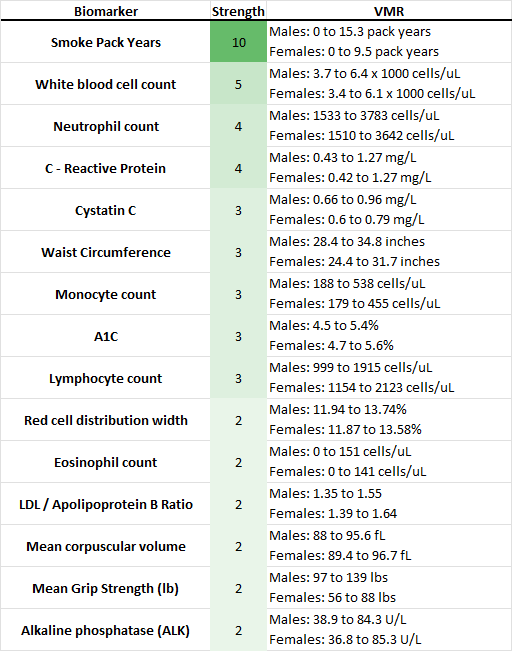
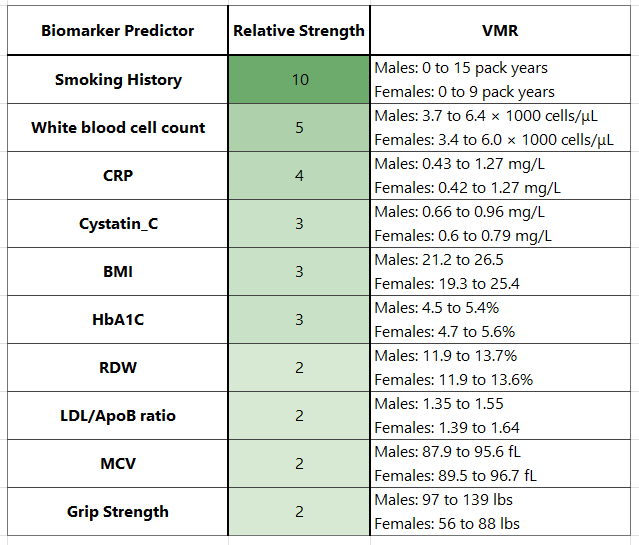
Updated Disease pages to use new BRG images

diff --git a/disease/copd.md b/disease/copd.md
@@ -10,15 +10,15 @@ parent: "Risk by Disease"
 **Chronic Obstructive Pulmonary Disease (COPD)** is a class of progressive lung diseases that results in difficulty breathing.
 
 
-Below are suggested target values for our model’s most predictive biomarkers or inputs for developing COPD in males and females aged 50 to 70.
+Below are suggested target values for our model's most predictive biomarkers or inputs for developing COPD in males and females aged 50 to 70.
 
 
-![Lungvmr](/assets/images/table_copd.jpg)
+![Lungvmr](/assets/images/table_copd.png)
 
 
 The table below contains Chronic Obstructive Pulmonary Disease risk ratios for each of the included biomarkers.
 
 
-![Lungrr](/assets/images/disease_rr_copd.jpg)
+![Lungrr](/assets/images/rr_copd.png)
 
 

diff --git a/disease/renal.md b/disease/renal.md
@@ -10,15 +10,15 @@ parent: "Risk by Disease"
 **Acute Kidney Disease** occurs when the kidneys begin to lose their function.
 
 
-Below are suggested target values for our model’s most predictive biomarkers or inputs for developing acute kidney disease in males and females aged 55 to 70.
+Below are suggested target values for our model's most predictive biomarkers or inputs for developing acute kidney disease in males and females aged 55 to 70.
 
 
-![Kidneyvmr](/assets/images/table_renal.jpg)
+![Kidneyvmr](/assets/images/table_renal.png)
 
 
 The table below contains Acute Kidney Disease risk ratios for each of the included biomarkers.
 
 
-![Kidneyrr](/assets/images/disease_rr_renal.jpg)
+![Kidneyrr](/assets/images/rr_renal.png)
 
 

diff --git a/disease/liver.md b/disease/liver.md
@@ -10,15 +10,15 @@ parent: "Risk by Disease"
 **Liver Disease** refers to a set of conditions that prevent the proper function of the liver.
 
 
-Below are suggested target values for our model’s most predictive biomarkers or inputs for developing Liver Disease in males and females aged 40 to 70.
+Below are suggested target values for our model's most predictive biomarkers or inputs for developing Liver Disease in males and females aged 40 to 70.
 
 
-![Livervmr](/assets/images/table_liver.jpg)
+![Livervmr](/assets/images/table_liver.png)
 
 
 The table below contains Liver Disease risk ratios for each of the included biomarkers.
 
 
-![Liverrr](/assets/images/disease_rr_liver.jpg)
+![Liverrr](/assets/images/rr_liver.png)
 
 

diff --git a/disease/mace.md b/disease/mace.md
@@ -13,12 +13,12 @@ A **Major Adverse Cardiac Event (MACE)** is a heart or blood vessel related even
 Below are suggested target values for the most predictive biomarkers for experiencing MACE in males and females aged 55 to 70 with no prior history of MACE.
 
 
-![Heartvmr](/assets/images/table_mace.jpg)
+![Heartvmr](/assets/images/table_mace.png)
 
 
 The table below contains Major Adverse Cardiac Events (MACE) risk ratios for each of the included biomarkers.
 
 
-![Heartrr](/assets/images/disease_rr_mace.jpg)
+![Heartrr](/assets/images/rr_mace.png)
 
 

diff --git a/disease/diabetes.md b/disease/diabetes.md
@@ -13,12 +13,12 @@ parent: "Risk by Disease"
 Below are suggested target values for the most predictive biomarkers for developing Type 2 Diabetes in males and females aged 40 to 70.
 
 
-![Diabetesvmr](/assets/images/table_diabetes.jpg)
+![Diabetesvmr](/assets/images/table_diabetes.png)
 
 
 The table below contains Type 2 Diabetes (T2D) risk ratios for each of the included biomarkers.
 
 
-![Diabetesrr](/assets/images/disease_rr_diabetes.jpg)
+![Diabetesrr](/assets/images/rr_diabetes.png)
 
 

diff --git a/disease/dementia.md b/disease/dementia.md
@@ -13,12 +13,12 @@ parent: "Risk by Disease"
 Below are suggested target values for the most predictive biomarkers for developing Dementia in males and females aged 60 to 70.
 
 
-![Dementiavmr](/assets/images/table_dementia.jpg)
+![Dementiavmr](/assets/images/table_dementia.png)
 
 
 The table below contains Dementia risk ratios for each of the included biomarkers.
 
 
-![Dementiarr](/assets/images/disease_rr_dementia.jpg)
+![Dementiarr](/assets/images/rr_dementia.png)
 
 
